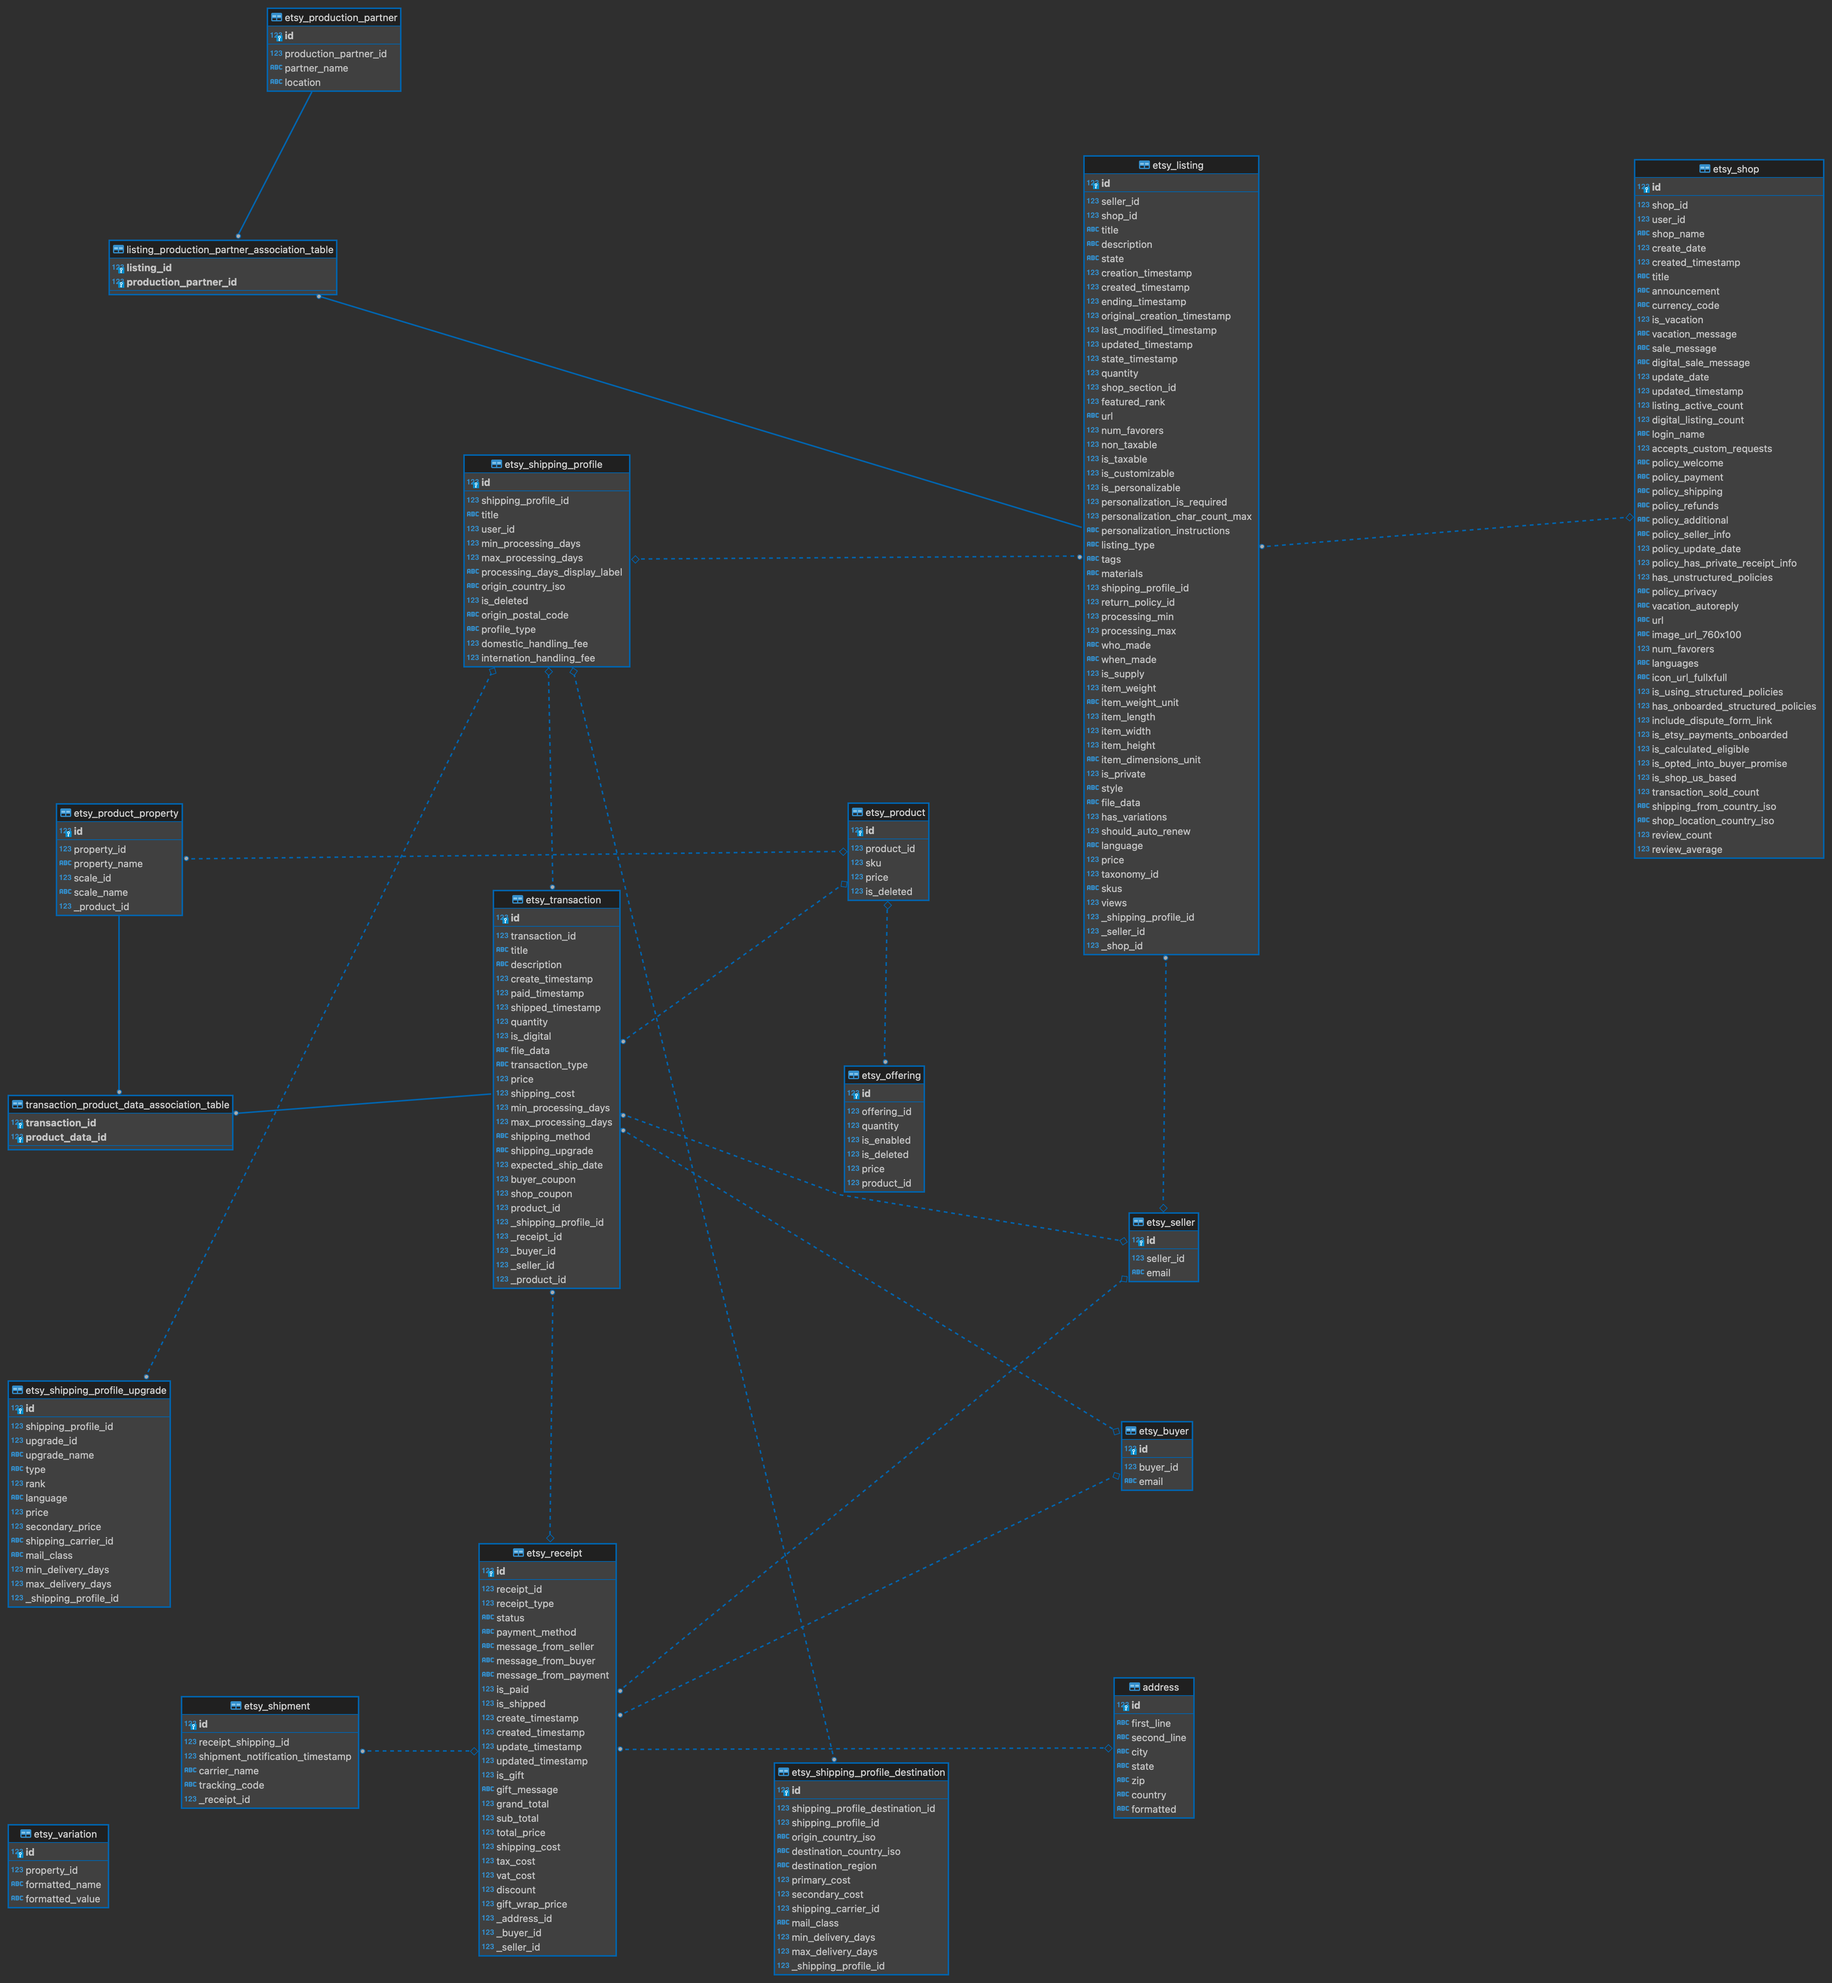
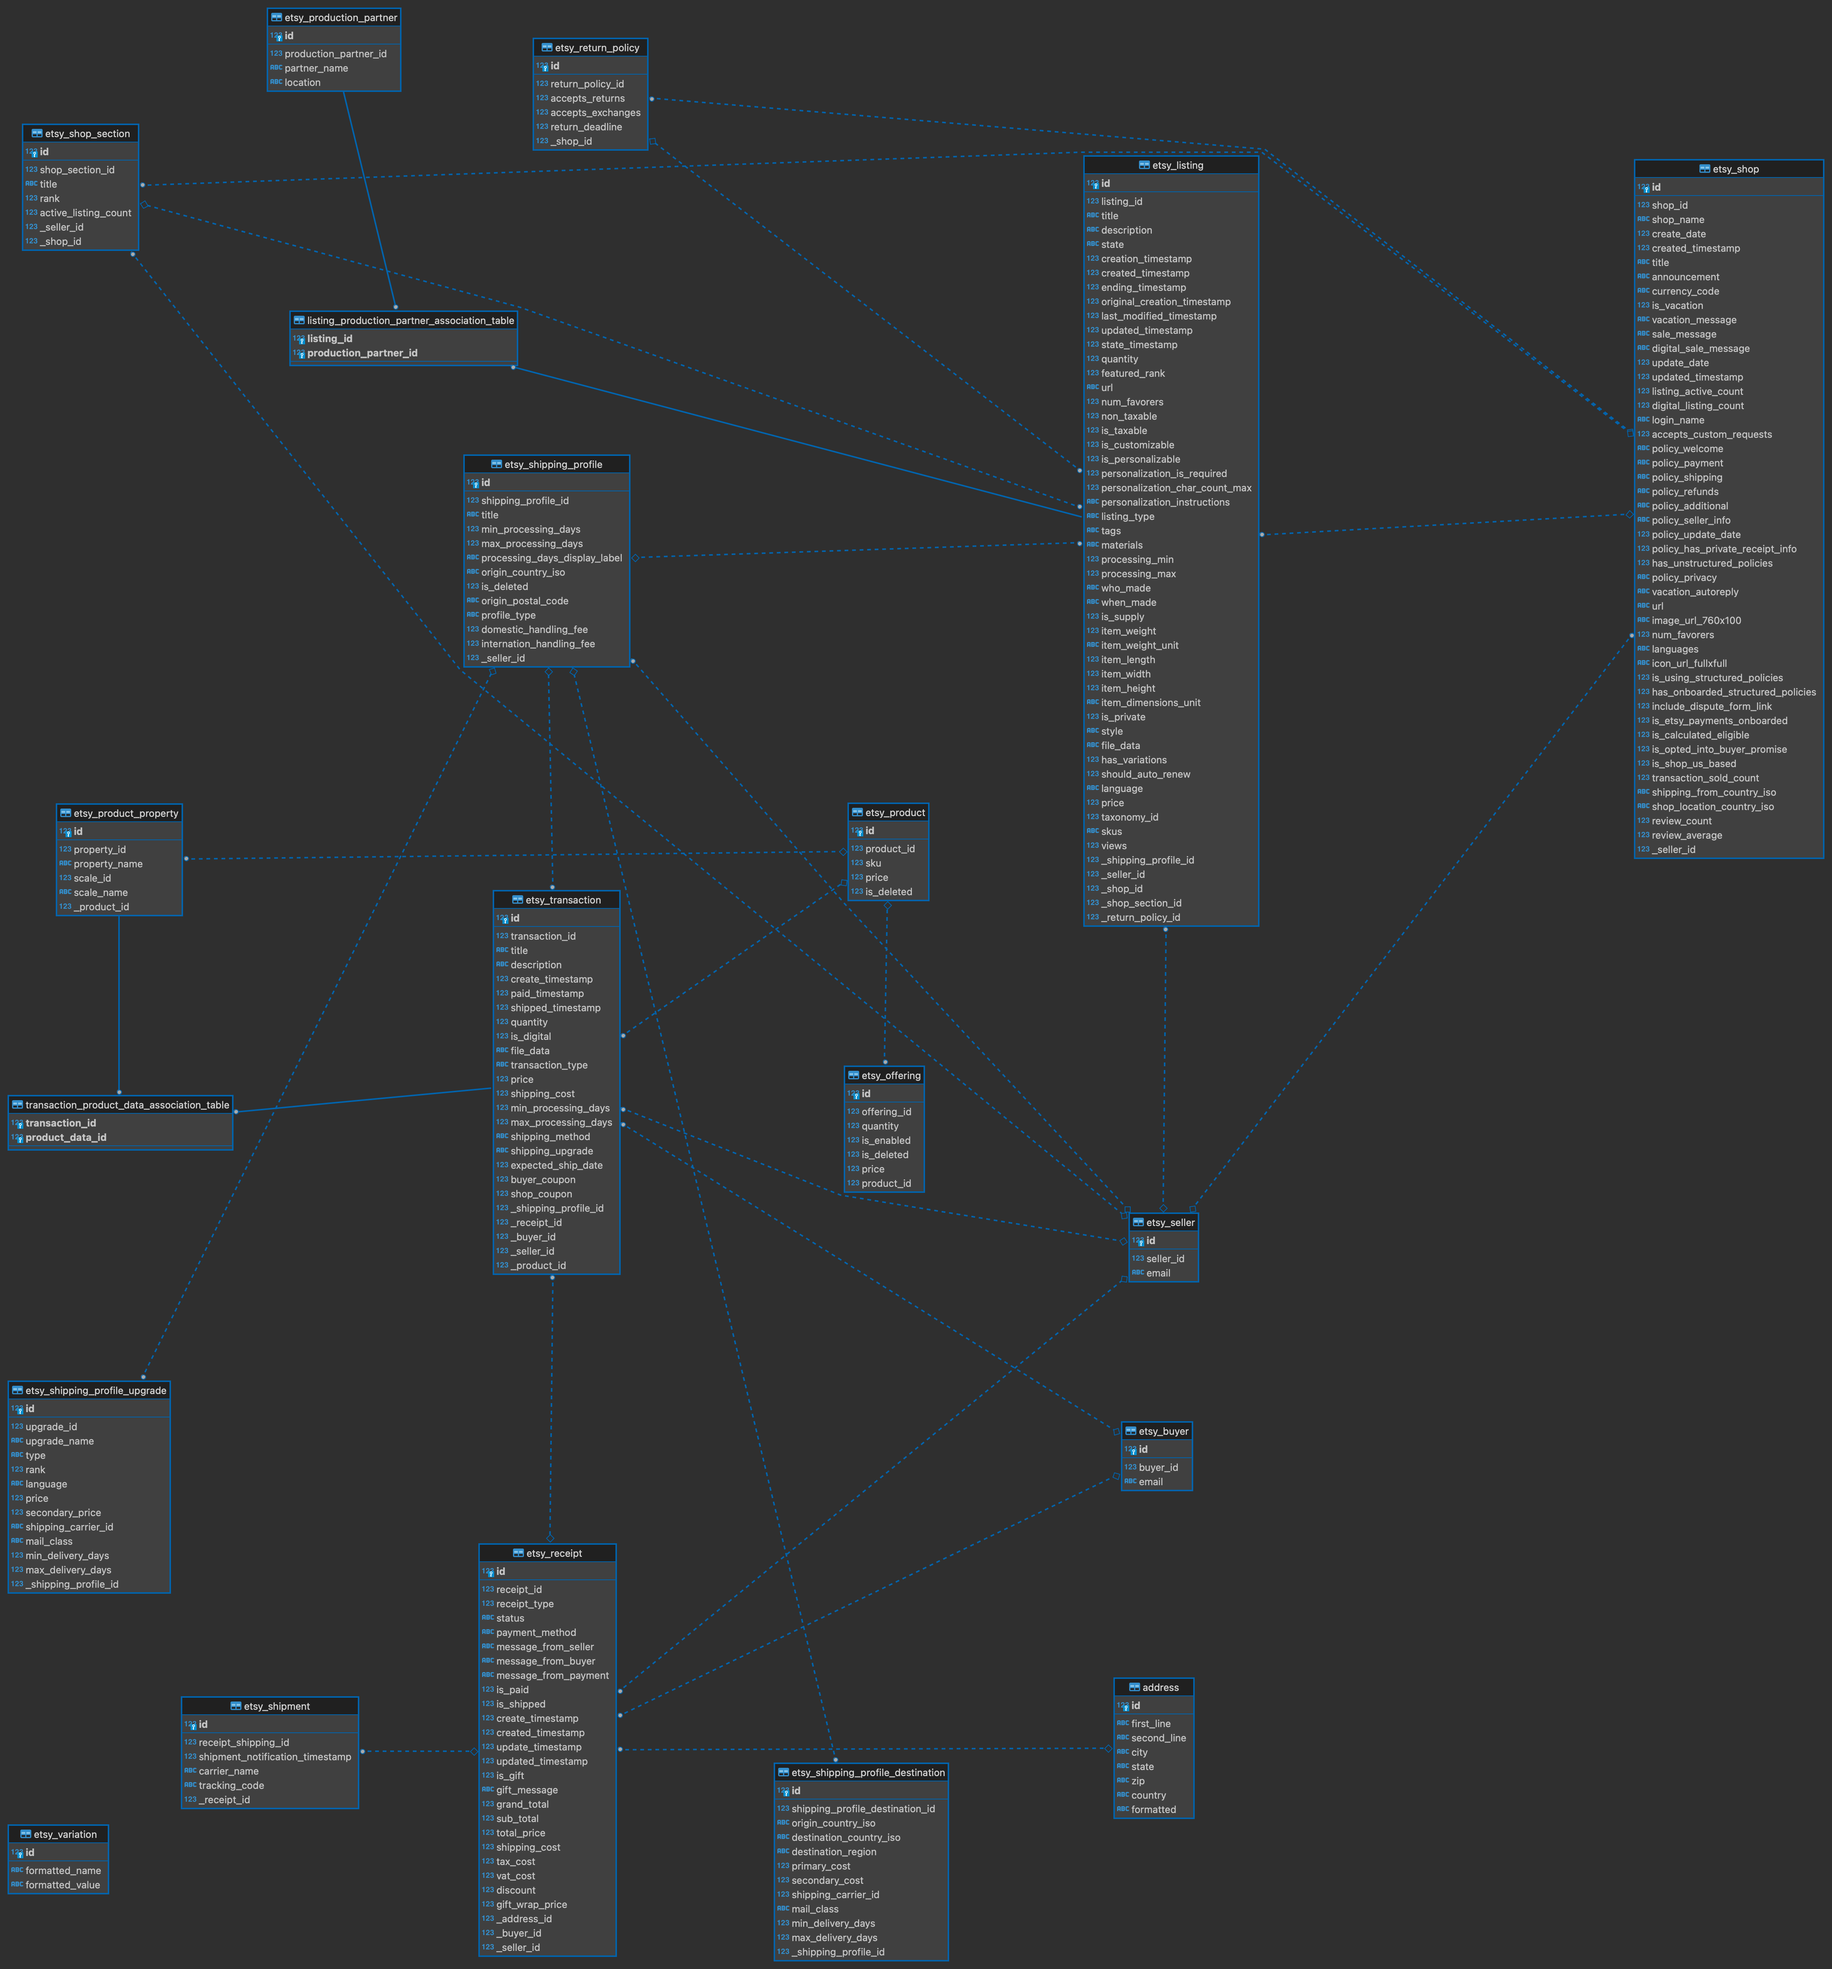
More relationships and tables.py, new ER doc

diff --git a/autoGenerations/database/tables.py b/autoGenerations/database/tables.py
@@ -54,6 +54,7 @@ class EtsyReceipt(Base):
     discount = Column(Float)
     gift_wrap_price = Column(Float)
 
+    # relationships
     _address_id = Column(Integer, ForeignKey('address.id'))
     address = relationship("Address", uselist=False, back_populates='receipts')
     _buyer_id = Column(Integer, ForeignKey('etsy_buyer.id'))
@@ -133,12 +134,16 @@ class EtsyReceipt(Base):
 class EtsySeller(Base):
     __tablename__ = 'etsy_seller'
     id = Column(Integer, primary_key=True)
-    seller_id = Column(Integer, unique=True)
+    seller_id = Column(BigInteger, unique=True)
     email = Column(String)
 
+    # relationships
     receipts = relationship('EtsyReceipt', back_populates='seller')
     transactions = relationship("EtsyTransaction", back_populates='seller')
     listings = relationship("EtsyListing", back_populates='seller')
+    shipping_profiles = relationship("EtsyShippingProfile", back_populates='seller')
+    shop_sections = relationship("EtsyShopSection", back_populates="seller")
+    shops = relationship("EtsyShop", back_populates="seller")
 
     @classmethod
     def create(cls, seller_data: Union[EtsySellerSpace, Dict[str, Any]],
@@ -187,7 +192,7 @@ class EtsySeller(Base):
 class EtsyBuyer(Base):
     __tablename__ = 'etsy_buyer'
     id = Column(Integer, primary_key=True)
-    buyer_id = Column(Integer, unique=True)
+    buyer_id = Column(BigInteger, unique=True)
     email = Column(String)
 
     receipts = relationship('EtsyReceipt', back_populates='buyer')
@@ -312,8 +317,8 @@ class EtsyTransaction(Base):
     expected_ship_date = Column(BigInteger)
     buyer_coupon = Column(Integer)
     shop_coupon = Column(Integer)
-    product_id = Column(BigInteger)
 
+    # relationships
     _shipping_profile_id = Column(Integer, ForeignKey('etsy_shipping_profile.id'))
     shipping_profile = relationship('EtsyShippingProfile', uselist=False, back_populates='transactions')
     _receipt_id = Column(Integer, ForeignKey('etsy_receipt.id'))
@@ -399,11 +404,12 @@ class EtsyTransaction(Base):
 class EtsyProduct(Base):
     __tablename__ = 'etsy_product'
     id = Column(Integer, primary_key=True)
-    product_id = Column(Integer, unique=True)
+    product_id = Column(BigInteger, unique=True)
     sku = Column(Integer)
     price = Column(Float)
     is_deleted = Column(Boolean)
 
+    # relationships
     transactions = relationship("EtsyTransaction", back_populates='product')
     offerings = relationship("EtsyOffering", back_populates='product')
     properties = relationship("EtsyProductProperty", back_populates='products')
@@ -437,9 +443,8 @@ class EtsyProduct(Base):
 class EtsyShippingProfile(Base):
     __tablename__ = 'etsy_shipping_profile'
     id = Column(Integer, primary_key=True)
-    shipping_profile_id = Column(Integer, unique=True)
+    shipping_profile_id = Column(BigInteger, unique=True)
     title = Column(String)
-    user_id = Column(BigInteger)
     min_processing_days = Column(Integer)
     max_processing_days = Column(Integer)
     processing_days_display_label = Column(String)
@@ -451,9 +456,10 @@ class EtsyShippingProfile(Base):
     internation_handling_fee = Column(Float)
 
     # relationships
+    _seller_id = Column(Integer, ForeignKey('etsy_seller.id'))
+    seller = relationship("EtsySeller", uselist=False, back_populates="shipping_profiles")
     destinations = relationship("EtsyShippingProfileDestination", back_populates='shipping_profile')
     upgrades = relationship("EtsyShippingProfileUpgrade", back_populates='shipping_profile')
-
     transactions = relationship("EtsyTransaction", back_populates='shipping_profile')
     listings = relationship("EtsyListing", back_populates="shipping_profile")
 
@@ -461,18 +467,22 @@ class EtsyShippingProfile(Base):
 class EtsyShippingProfileDestination(Base):
     __tablename__ = 'etsy_shipping_profile_destination'
     id = Column(Integer, primary_key=True)
-    shipping_profile_destination_id = Column(BigInteger)
-    shipping_profile_id = Column(BigInteger)
+    shipping_profile_destination_id = Column(BigInteger, unique=True)
     origin_country_iso = Column(String)
     destination_country_iso = Column(String)
     destination_region = Column(String)
     primary_cost = Column(Float)
     secondary_cost = Column(Float)
+
+    # TODO: There is no endpoint to get a single shipping carrier's information. If this turns out to be important,
+    #  we can retrieve all shipping carriers periodically and then keep a record of them in the database so that we can
+    #  create a relationship here
     shipping_carrier_id = Column(Integer)
     mail_class = Column(String)
     min_delivery_days = Column(Integer)
     max_delivery_days = Column(Integer)
 
+    # relationships
     _shipping_profile_id = Column(Integer, ForeignKey('etsy_shipping_profile.id'))
     shipping_profile = relationship("EtsyShippingProfile", uselist=False, back_populates="destinations")
 
@@ -480,19 +490,23 @@ class EtsyShippingProfileDestination(Base):
 class EtsyShippingProfileUpgrade(Base):
     __tablename__ = 'etsy_shipping_profile_upgrade'
     id = Column(Integer, primary_key=True)
-    shipping_profile_id = Column(BigInteger)
-    upgrade_id = Column(BigInteger)
+    upgrade_id = Column(BigInteger, unique=True)
     upgrade_name = Column(String)
     type = Column(Enum(Etsy.ShippingUpgradeType))
     rank = Column(Integer)
     language = Column(String)
     price = Column(Float)
     secondary_price = Column(Float)
+
+    # TODO: There is no endpoint to get a single shipping carrier's information. If this turns out to be important,
+    #  we can retrieve all shipping carriers periodically and then keep a record of them in the database so that we can
+    #  create a relationship here
     shipping_carrier_id = Column(String)
     mail_class = Column(String)
     min_delivery_days = Column(Integer)
     max_delivery_days = Column(Integer)
 
+    # relationships
     _shipping_profile_id = Column(Integer, ForeignKey('etsy_shipping_profile.id'))
     shipping_profile = relationship("EtsyShippingProfile", uselist=False, back_populates="upgrades")
 
@@ -505,6 +519,7 @@ class EtsyReceiptShipment(Base):
     carrier_name = Column(String)
     tracking_code = Column(String)
 
+    # relationships
     _receipt_id = Column(Integer, ForeignKey('etsy_receipt.id'))
     receipt = relationship('EtsyReceipt', uselist=False, back_populates='receipt_shipments')
 
@@ -556,7 +571,6 @@ class EtsyReceiptShipment(Base):
 class EtsyVariation(Base):
     __tablename__ = 'etsy_variation'
     id = Column(Integer, primary_key=True)
-    property_id = Column(Integer, unique=True)
     formatted_name = Column(String)
     formatted_value = Column(String)
 
@@ -564,7 +578,6 @@ class EtsyVariation(Base):
 class EtsyProductProperty(Base):
     __tablename__ = 'etsy_product_property'
     id: Mapped[int] = mapped_column(primary_key=True)
-
     property_id = Column(BigInteger, unique=True)
     property_name = Column(String)
     scale_id = Column(BigInteger)
@@ -632,8 +645,7 @@ class EtsyProductProperty(Base):
 class EtsyListing(Base):
     __tablename__ = 'etsy_listing'
     id: Mapped[int] = mapped_column(primary_key=True)
-    seller_id = Column(BigInteger)
-    shop_id = Column(BigInteger)
+    listing_id = Column(BigInteger, unique=True)
     title = Column(String)
     description = Column(String)
     state = Column(Enum(Etsy.ListingState))
@@ -645,7 +657,6 @@ class EtsyListing(Base):
     updated_timestamp = Column(BigInteger)
     state_timestamp = Column(BigInteger)
     quantity = Column(Integer)
-    shop_section_id = Column(Integer)
     featured_rank = Column(Integer)
     url = Column(String)
     num_favorers = Column(Integer)
@@ -659,8 +670,6 @@ class EtsyListing(Base):
     listing_type = Column(Enum(Etsy.ListingType))
     tags = Column(String)  # Array
     materials = Column(String)  # Array
-    shipping_profile_id = Column(BigInteger)
-    return_policy_id = Column(BigInteger)
     processing_min = Column(Integer)
     processing_max = Column(Integer)
     who_made = Column(String)
@@ -690,6 +699,10 @@ class EtsyListing(Base):
     seller = relationship("EtsySeller", uselist=False, back_populates="listings")
     _shop_id = Column(Integer, ForeignKey("etsy_shop.id"))
     shop = relationship("EtsyShop", uselist=False, back_populates="listings")
+    _shop_section_id = Column(Integer, ForeignKey('etsy_shop_section.id'))
+    shop_section = relationship("EtsyShopSection", uselist=False, back_populates="listings")
+    _return_policy_id = Column(Integer, ForeignKey('etsy_return_policy.id'))
+    return_policy = relationship("EtsyReturnPolicy", uselist=False, back_populates="listings")
 
     production_partners: Mapped[List[EtsyProductionPartner]] = relationship(
         secondary=listing_production_partner_association_table, back_populates="listings"
@@ -744,6 +757,39 @@ class EtsyListing(Base):
             self.transactions = transactions if overwrite_lists else self.transactions + transactions
 
 
+class EtsyReturnPolicy(Base):
+    """
+    https://developer.etsy.com/documentation/reference#operation/getShopReturnPolicy
+    """
+    __tablename__ = 'etsy_return_policy'
+    id = Column(Integer, primary_key=True)
+    return_policy_id = Column(BigInteger, unique=True)
+    accepts_returns = Column(Boolean)
+    accepts_exchanges = Column(Boolean)
+    return_deadline = Column(Integer)
+
+    # relationships
+    _shop_id = Column(Integer, ForeignKey("etsy_shop.id"))
+    shop = relationship("EtsyShop", uselist=False, back_populates="return_policies")
+    listings = relationship("EtsyListing", back_populates="return_policy")
+
+
+class EtsyShopSection(Base):
+    __tablename__ = 'etsy_shop_section'
+    id = Column(Integer, primary_key=True)
+    shop_section_id = Column(BigInteger, unique=True)
+    title = Column(String)
+    rank = Column(Integer)
+    active_listing_count = Column(Integer)
+
+    # relationships
+    _seller_id = Column(Integer, ForeignKey('etsy_seller.id'))
+    seller = relationship("EtsySeller", uselist=False, back_populates="shop_sections")
+    _shop_id = Column(Integer, ForeignKey('etsy_shop.id'))
+    shop = relationship("EtsyShop", uselist=False, back_populates="shop_sections")
+    listings = relationship("EtsyListing", back_populates="shop_section")
+
+
 class EtsyProductionPartner(Base):
     __tablename__ = 'etsy_production_partner'
     id = Column(Integer, primary_key=True)
@@ -751,6 +797,7 @@ class EtsyProductionPartner(Base):
     partner_name = Column(String)
     location = Column(String)
 
+    # relationships
     listings: Mapped[List[EtsyListing]] = relationship(
         secondary=listing_production_partner_association_table, back_populates="production_partners"
     )
@@ -763,7 +810,6 @@ class EtsyShop(Base):
     __tablename__ = 'etsy_shop'
     id = Column(Integer, primary_key=True)
     shop_id = Column(BigInteger, unique=True)
-    user_id = Column(BigInteger)
     shop_name = Column(String)
     create_date = Column(Integer)
     created_timestamp = Column(Integer)
@@ -809,7 +855,12 @@ class EtsyShop(Base):
     review_count = Column(Integer)
     review_average = Column(Float)
 
+    # relationships
+    _seller_id = Column(Integer, ForeignKey('etsy_seller.id'))
+    seller = relationship("EtsySeller", uselist=False, back_populates="shops")
     listings = relationship("EtsyListing", back_populates="shop")
+    return_policies = relationship("EtsyReturnPolicy", back_populates="shop")
+    shop_sections = relationship("EtsyShopSection", back_populates="shop")
 
 
 class EtsyOffering(Base):
@@ -821,6 +872,7 @@ class EtsyOffering(Base):
     is_deleted = Column(Boolean)
     price = Column(Float)
 
+    # relationships
     product_id = Column(Integer, ForeignKey('etsy_product.id'))
     product = relationship("EtsyProduct", uselist=False, back_populates='offerings')
 
